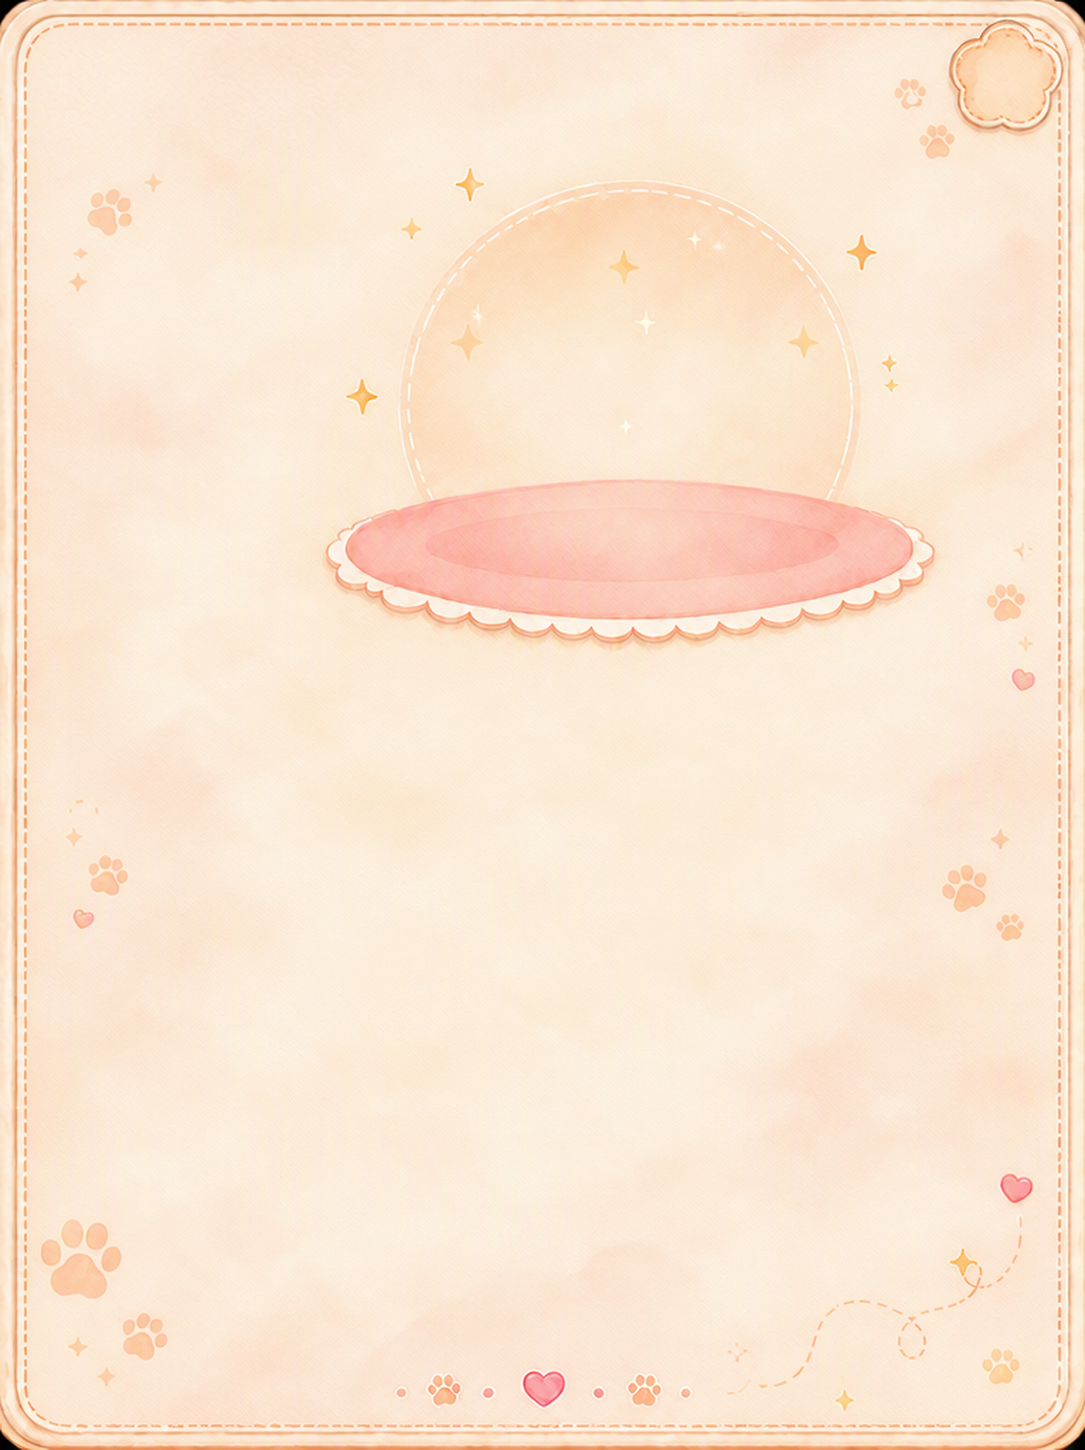
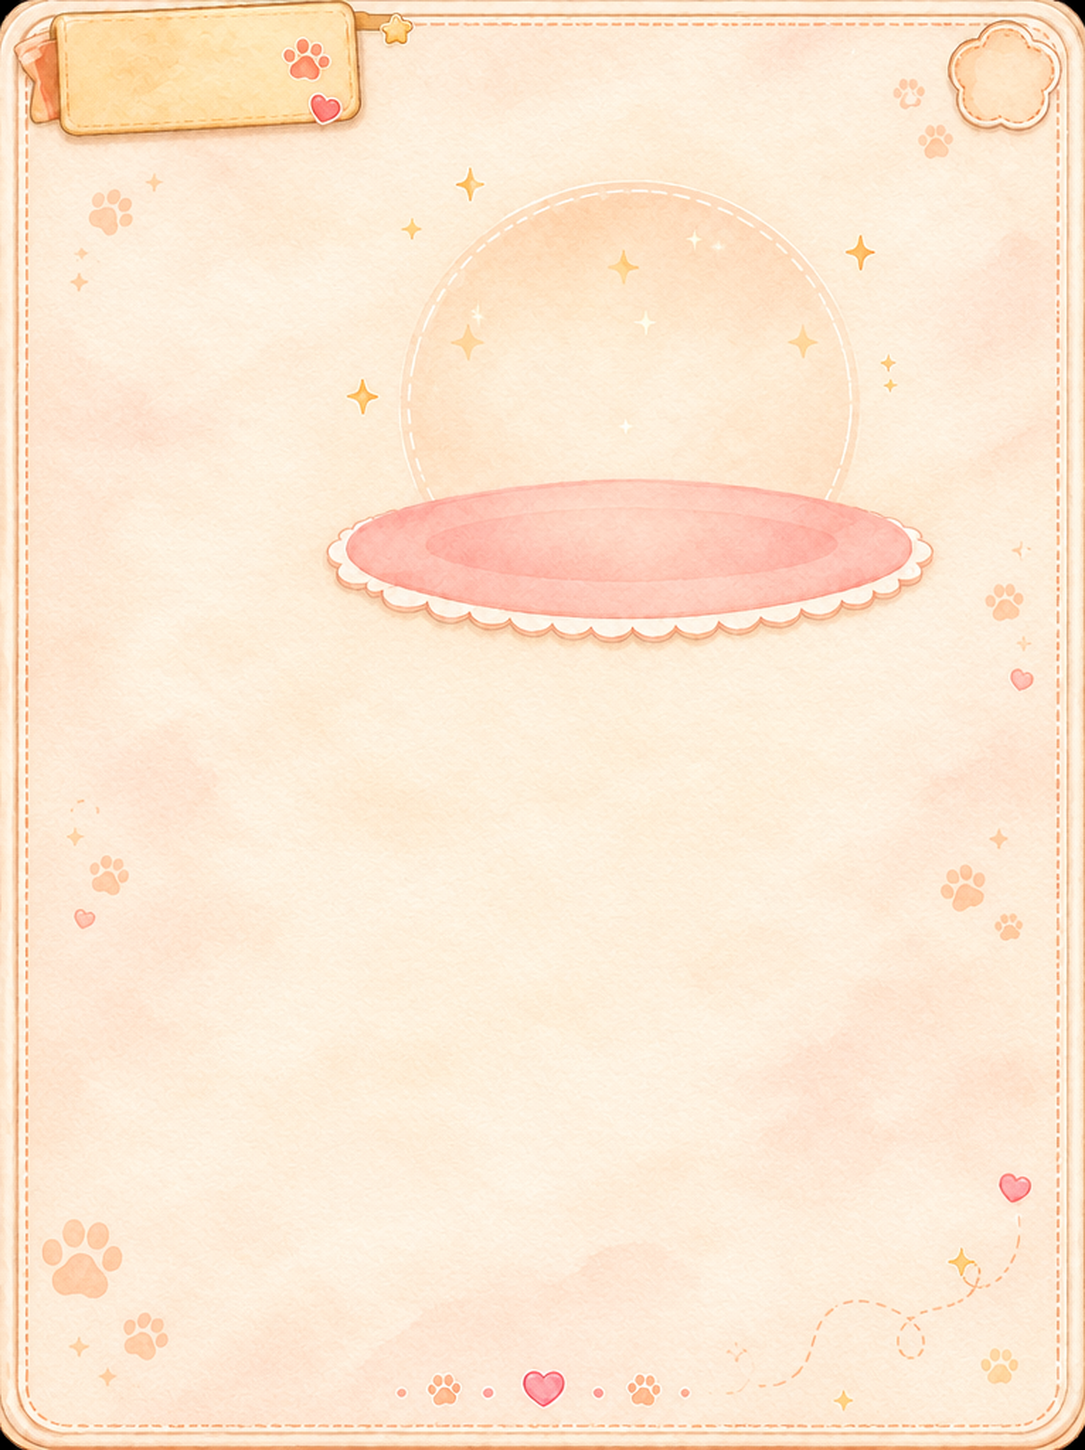
revert: 贴纸实验终结——代码+尺寸钉回 b50e692 基线(850x960),背景回 87ac93c 重绘版,banner_sticker 删;grep 0 残留验证;VERDICT 1114

diff --git a/petpet/ui/pet_profile.py b/petpet/ui/pet_profile.py
@@ -49,11 +49,6 @@ _ASSET_DIR = os.path.join(
 # 小屏放不下时按等比因子整体收缩（下限 0.55），保持 850:960 比例。
 ART_W, ART_H = 1085, 1450
 UNIFIED_W, UNIFIED_H = 850, 960
-# 左上角横幅贴纸骑跨(2026-10-26 用户令:横幅像贴纸贴在左上角可超出
-# 页面边界,页面跳出规整矩形):卡片上缘内收,全部内容同步下移保对位。
-CARD_POKE_TOP = 26   # 卡片上缘内收(显示 px)——上缘透明区
-STICKER_POKE_UP = 18  # 贴纸伸出卡片上缘深度(显示 px)
-
 _SX = UNIFIED_W / ART_W
 _SY = UNIFIED_H / ART_H
 _FIT = 1.0
@@ -123,13 +118,8 @@ OUTFIT_IDLE_HEIGHT = 160   # 第二十九轮：缩小 20%（200×0.8）
 
 
 def _R(x, y, w, h):
-    """艺术稿坐标 → 实际画布几何（横纵各自缩放铺满统一尺寸）。
-
-    2026-10-26 横幅贴纸轮:y 统一加 CARD_POKE_TOP——卡片上缘内收后,
-    所有部件与背景同步下移,画布内相对对位不变。
-    """
-    return QRect(round(x * _SX * _FIT),
-                 round(y * _SY * _FIT + CARD_POKE_TOP * _FIT),
+    """艺术稿坐标 → 实际画布几何（横纵各自缩放铺满统一尺寸）。"""
+    return QRect(round(x * _SX * _FIT), round(y * _SY * _FIT),
                  round(w * _SX * _FIT), round(h * _SY * _FIT))
 
 
@@ -921,22 +911,8 @@ class PetProfileWindow(KeepAliveTopLevelWindow):
         except (RuntimeError, AttributeError):
             screen = None
         _FIT = _resolve_scale(screen)
-        # 高度补偿(2026-10-26 用户令「上面伸出多少下面补多少,不是高度
-        # 锁死」):窗口 = 卡高 960 + 上沟 26 = 986,卡内容空间分毫未压。
-        self.setFixedSize(round(UNIFIED_W * _FIT),
-                          round(UNIFIED_H * _FIT)
-                          + round(CARD_POKE_TOP * _FIT))
+        self.setFixedSize(round(UNIFIED_W * _FIT), round(UNIFIED_H * _FIT))
         self._background = _pp_pixmap("new_background.png", ART_W, ART_H)
-        # 横幅贴纸(2026-10-26 v2):原背景横幅同款同角度+叠层贴纸边
-        self._banner_sticker = _pp_pixmap("banner_sticker.png", 330, 157)
-        # 框内标题(用户令:同款可爱圆润字体,框里对应位置)——幼圆渲染
-        self._banner_title = _ArtTitle("宠物档案", self, font_px=30)
-        # v3 微调(2026-10-26):标题水平铺满贴纸内区居中,垂直贴框心
-        self._banner_title.setGeometry(
-            round(14 * _FIT) + round(40 * _FIT),
-            round(CARD_POKE_TOP * _FIT) - round(STICKER_POKE_UP * _FIT)
-            + round(44 * _FIT),
-            round(250 * _FIT), round(66 * _FIT))
         # 头像列表 rail（宠物系统独立背景板，叠加在背景左侧）。
         self._rail = _pp_pixmap("pet_avatar_rail.png", RAIL_AT[2], RAIL_AT[3])
         # 素材逐个接入（base_UI 已于第六轮撤下）。
@@ -2124,22 +2100,13 @@ class PetProfileWindow(KeepAliveTopLevelWindow):
         painter.setRenderHint(QPainter.Antialiasing)
         clip = QPainterPath()
         radius = CORNER_RADIUS * _SX * _FIT
-        card_y = round(CARD_POKE_TOP * _FIT)
-        clip.addRoundedRect(0, card_y, self.width(),
-                            self.height() - card_y, radius, radius)
+        clip.addRoundedRect(0, 0, self.width(), self.height(),
+                            radius, radius)
         painter.setClipPath(clip)
         if not self._background.isNull():
-            painter.drawPixmap(0, card_y, self._background)
+            painter.drawPixmap(0, 0, self._background)
         if not self._rail.isNull():
             painter.drawPixmap(_R(*RAIL_AT).topLeft(), self._rail)
-        # 横幅贴纸骑跨上缘(2026-10-26):不受卡片裁剪,顶=卡片缘-伸出
-        if not self._banner_sticker.isNull():
-            painter.setClipping(False)
-            sticker_x = round(14 * _FIT)
-            sticker_y = card_y - round(STICKER_POKE_UP * _FIT)
-            painter.drawPixmap(sticker_x, sticker_y,
-                               round(330 * _FIT), round(157 * _FIT),
-                               self._banner_sticker)
 
     def mousePressEvent(self, event):
         if event.button() == Qt.LeftButton:

diff --git a/tests/test_pet_profile.py b/tests/test_pet_profile.py
@@ -133,8 +133,7 @@ class ProfileWindowShellTests(unittest.TestCase):
         self.assertEqual((module.ART_W, module.ART_H), (1085, 1450))
         self.assertEqual((module.UNIFIED_W, module.UNIFIED_H), (850, 960))
         window, _ = self._window()
-        # 2026-10-26 横幅贴纸轮:窗口=卡 960+上沟 26=986(上伸下补,高度不锁)
-        self.assertEqual((window.width(), window.height()), (850, 986))
+        self.assertEqual((window.width(), window.height()), (850, 960))
 
     def test_resolve_scale_fits_small_screens(self):
         from PyQt5.QtCore import QRect

diff --git a/HANDOFF.md b/HANDOFF.md
@@ -67,6 +67,7 @@ D:\Agent_project\Petpet
 
 | 领域 | 内容 |
 |------|------|
+| **贴纸实验终结还原**（2026-10-26 追记十五，待发） | 用户令「改回不加这种效果的时候」——代码+尺寸钉回 b50e692 基线(850×960),背景回 87ac93c 重绘版,banner_sticker 删;grep 特征常量 0 残留验证后提交。VERDICT **1114**;详见 Obsidian `开发记录\2026-10-26 点击流畅度与双响排查`(追记十五) |
 | **横幅贴纸 v3 修竖块**（2026-10-26 追记十四，待发） | 用户令自查——v2 贴纸被 3:4 竖幅裁上带的裁切链压成竖块(视觉模型+像素双检实锤);v3=16:9 宽幅生成+严格 2.1:1 比例实测(内容比 2.18),视觉复检横向横幅+文字框内;标题居中微调。VERDICT **1114**;积分-7 余~427;详见 Obsidian `开发记录\2026-10-26 点击流畅度与双响排查`(追记十四) |
 | **横幅贴纸 v2 定稿**（2026-10-26 追记十三，待发） | 用户三令:①贴纸=原背景横幅同款同角度(git 原始横幅参照生成+叠层贴纸边)——②上伸下补:窗口 960→986(卡 960+沟 26 内容零压缩,尺寸钉随新规格 850×986)——③框内幼圆加粗「宠物档案」(App 字体渲染防 AI 乱字)。VERDICT **1114**;积分-7 余~434;详见 Obsidian `开发记录\2026-10-26 点击流畅度与双响排查`(追记十三) |
 | **左上角横幅贴纸骑跨上缘**（2026-10-26 追记十二，待发） | 用户终达意「横幅像贴纸可超出页面边界,页面跳出规整矩形,不影响部件」——背景重生成(烘焙横幅移除)+横幅叠层贴纸(奶白环+棕线+柔投影);卡片上缘内收 26px,_R() 统一加垂直偏移全内容同步下移(名牌 397=+26 恰合,底 953<960),贴纸骑跨伸出 18px。VERDICT **1114**;详见 Obsidian `开发记录\2026-10-26 点击流畅度与双响排查`(追记十二) |
